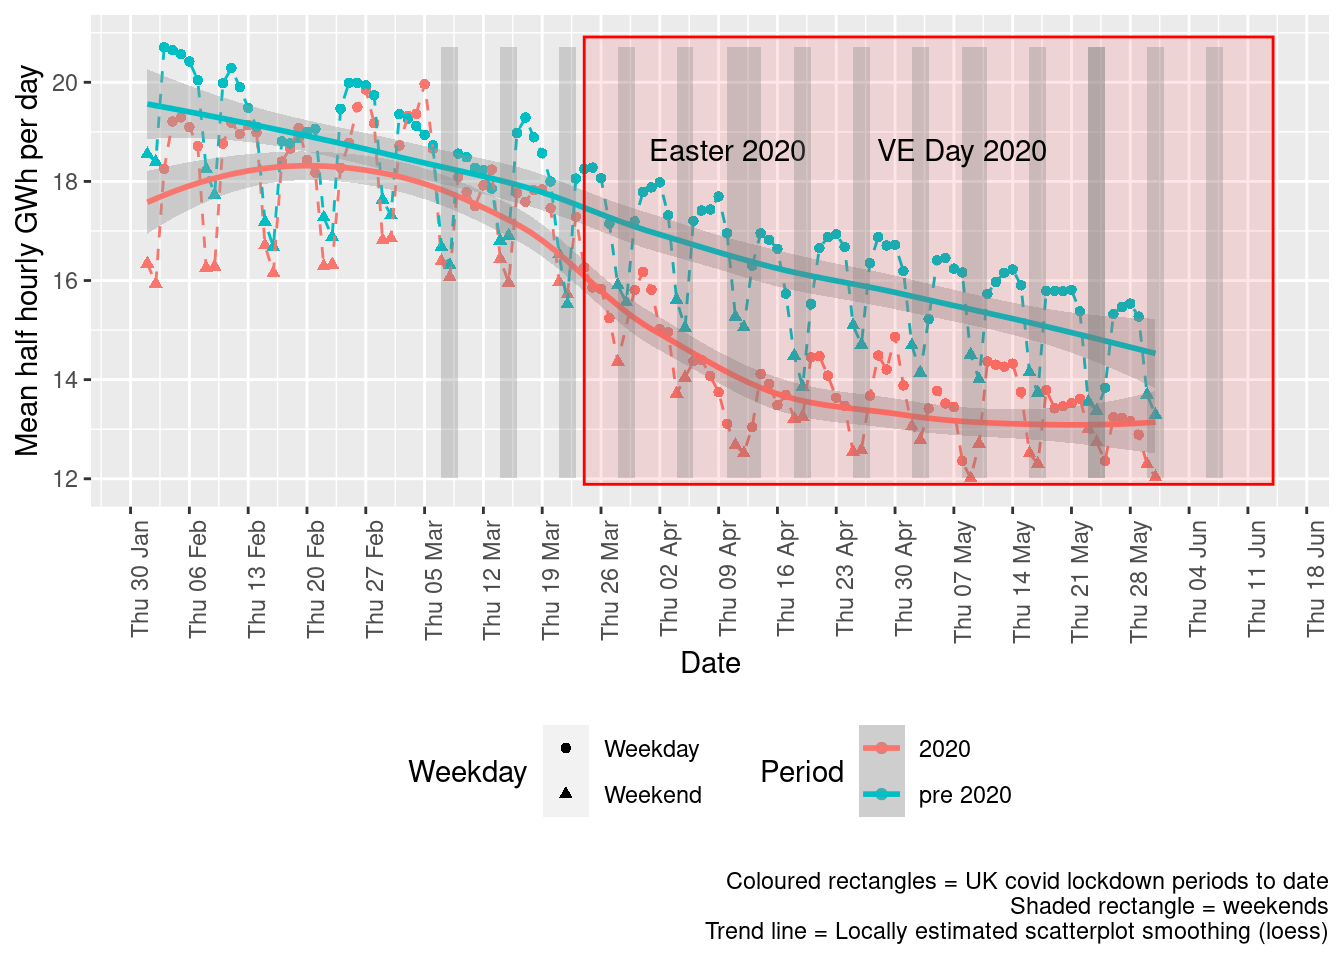
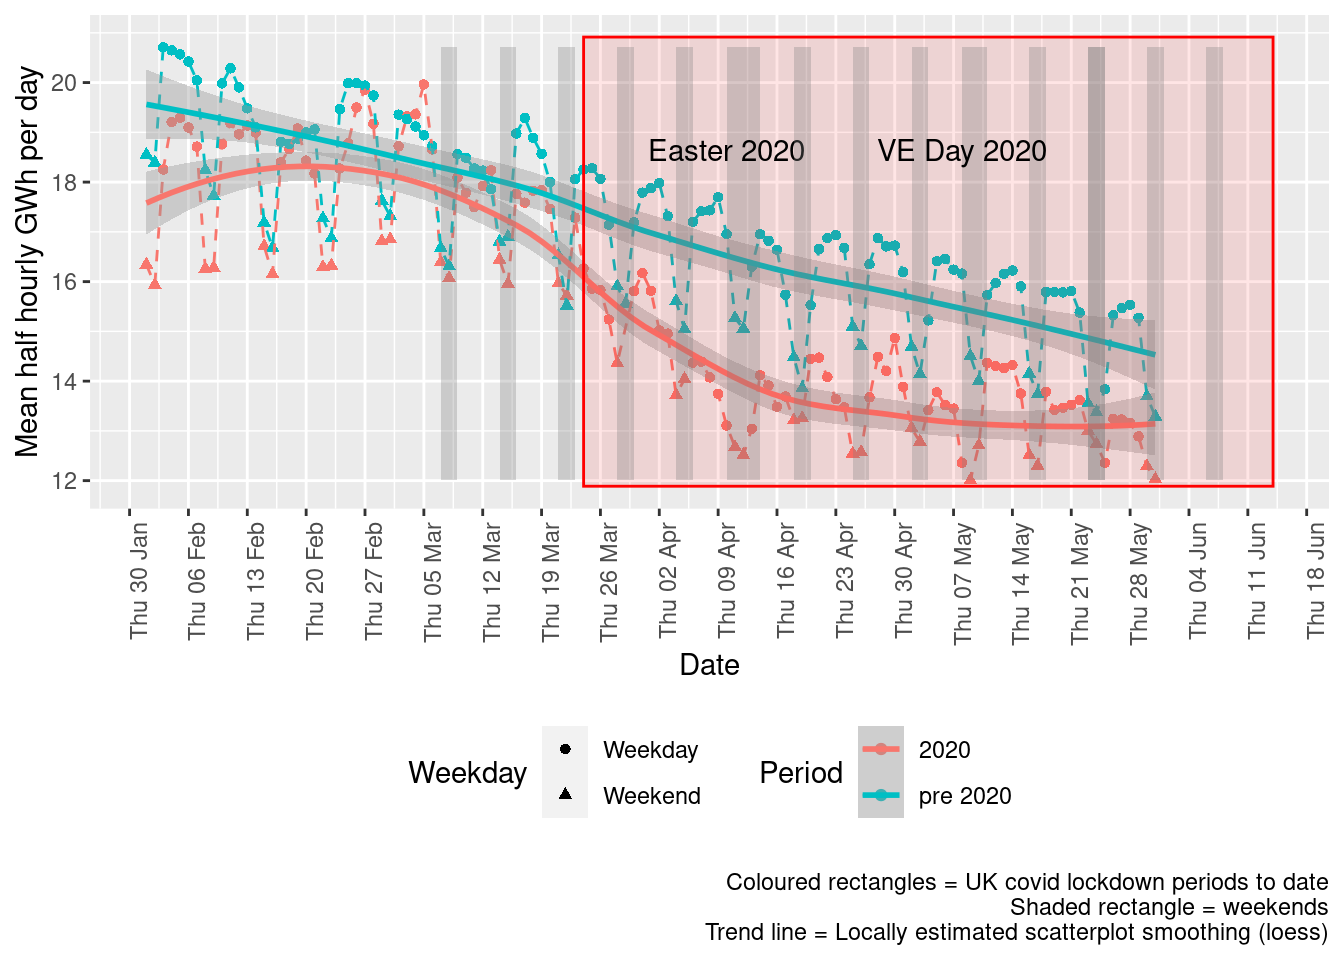
re-ran with re-sized output plots

diff --git a/docs/covidLockdown_UK.html b/docs/covidLockdown_UK.html
@@ -269,7 +269,7 @@ div.tocify {
 <h1 class="title toc-ignore">UK Electricity Generation and Carbon Itensity</h1>
 <h3 class="subtitle">covid 19 lockdown v1.0</h3>
 <h4 class="author">Ben Anderson</h4>
-<h4 class="date">Last run at: 2020-06-14 14:04:04</h4>
+<h4 class="date">Last run at: 2020-06-14 15:50:37</h4>
 
 </div>
 
@@ -1254,10 +1254,10 @@ Figure 3.5: timeVariation plots for half-hourly GWh generation comparing pre/loc
 </p>
 </div>
 <pre><code>## Confirming dates plotted: date (as set for openair)</code></pre>
-<pre><code>##                  Min.               1st Qu.                Median                  Mean               3rd Qu. 
-## &quot;2017-01-05 00:00:00&quot; &quot;2017-11-11 17:37:30&quot; &quot;2018-09-18 12:15:00&quot; &quot;2018-09-18 10:56:48&quot; &quot;2019-07-26 05:52:30&quot; 
-##                  Max. 
-## &quot;2020-05-31 23:30:00&quot;</code></pre>
+<pre><code>##                  Min.               1st Qu.                Median                  Mean 
+## &quot;2017-01-05 00:00:00&quot; &quot;2017-11-11 17:37:30&quot; &quot;2018-09-18 12:15:00&quot; &quot;2018-09-18 10:56:48&quot; 
+##               3rd Qu.                  Max. 
+## &quot;2019-07-26 05:52:30&quot; &quot;2020-05-31 23:30:00&quot;</code></pre>
 <pre><code>## Confirming dates plotted: dateFixed</code></pre>
 <pre><code>##         Min.      1st Qu.       Median         Mean      3rd Qu.         Max. 
 ## &quot;2020-01-02&quot; &quot;2020-02-08&quot; &quot;2020-03-16&quot; &quot;2020-03-16&quot; &quot;2020-04-24&quot; &quot;2020-05-31&quot;</code></pre>
@@ -1648,10 +1648,10 @@ Figure 3.13: timeVariation plots for half-hourly carbon intensity comparing lock
 </p>
 </div>
 <pre><code>## Confirming dates plotted: date (as set for openair)</code></pre>
-<pre><code>##                  Min.               1st Qu.                Median                  Mean               3rd Qu. 
-## &quot;2017-01-05 00:00:00&quot; &quot;2017-11-11 17:37:30&quot; &quot;2018-09-18 12:15:00&quot; &quot;2018-09-18 10:56:48&quot; &quot;2019-07-26 05:52:30&quot; 
-##                  Max. 
-## &quot;2020-05-31 23:30:00&quot;</code></pre>
+<pre><code>##                  Min.               1st Qu.                Median                  Mean 
+## &quot;2017-01-05 00:00:00&quot; &quot;2017-11-11 17:37:30&quot; &quot;2018-09-18 12:15:00&quot; &quot;2018-09-18 10:56:48&quot; 
+##               3rd Qu.                  Max. 
+## &quot;2019-07-26 05:52:30&quot; &quot;2020-05-31 23:30:00&quot;</code></pre>
 <pre><code>## Confirming dates plotted: dateFixed</code></pre>
 <pre><code>##         Min.      1st Qu.       Median         Mean      3rd Qu.         Max. 
 ## &quot;2020-01-02&quot; &quot;2020-02-08&quot; &quot;2020-03-16&quot; &quot;2020-03-16&quot; &quot;2020-04-24&quot; &quot;2020-05-31&quot;</code></pre>
@@ -2016,10 +2016,10 @@ Figure 3.19: timeVariation plots for half-hourly CO2e comparing lockdown 2020 wi
 </p>
 </div>
 <pre><code>## Confirming dates plotted: date (as set for openair)</code></pre>
-<pre><code>##                  Min.               1st Qu.                Median                  Mean               3rd Qu. 
-## &quot;2017-01-05 00:00:00&quot; &quot;2017-11-11 17:37:30&quot; &quot;2018-09-18 12:15:00&quot; &quot;2018-09-18 10:56:48&quot; &quot;2019-07-26 05:52:30&quot; 
-##                  Max. 
-## &quot;2020-05-31 23:30:00&quot;</code></pre>
+<pre><code>##                  Min.               1st Qu.                Median                  Mean 
+## &quot;2017-01-05 00:00:00&quot; &quot;2017-11-11 17:37:30&quot; &quot;2018-09-18 12:15:00&quot; &quot;2018-09-18 10:56:48&quot; 
+##               3rd Qu.                  Max. 
+## &quot;2019-07-26 05:52:30&quot; &quot;2020-05-31 23:30:00&quot;</code></pre>
 <pre><code>## Confirming dates plotted: dateFixed</code></pre>
 <pre><code>##         Min.      1st Qu.       Median         Mean      3rd Qu.         Max. 
 ## &quot;2020-01-02&quot; &quot;2020-02-08&quot; &quot;2020-03-16&quot; &quot;2020-03-16&quot; &quot;2020-04-24&quot; &quot;2020-05-31&quot;</code></pre>
@@ -4337,11 +4337,6 @@ Figure 6.11: Trend plots of mean half-hourly fuel use per month since 2016-01-01
 <div id="experimental-plots" class="section level2">
 <h2><span class="header-section-number">6.3</span> Experimental plots</h2>
 <p>Figure <a href="#fig:binedDemand">6.12</a> shows the relationship between half-hourly carbon intensity and half-hourly generation over the last five years. 2020 is excluded as it is not yet complete.</p>
-<pre><code>## 
-## Attaching package: &#39;gtools&#39;</code></pre>
-<pre><code>## The following object is masked from &#39;package:drake&#39;:
-## 
-##     running</code></pre>
 <div class="figure"><span id="fig:binedDemand"></span>
 <img src="covidLockdown_UK_files/figure-html/binedDemand-1.png" alt="Box &amp; whiskers plots of carbon intensity over time by generation decile" width="672" />
 <p class="caption">
@@ -4364,7 +4359,7 @@ Figure 6.12: Box &amp; whiskers plots of carbon intensity over time by generatio
 </div>
 <div id="runtime" class="section level1">
 <h1><span class="header-section-number">7</span> Runtime</h1>
-<p>Analysis completed in 135.85 seconds ( 2.26 minutes) using <a href="https://cran.r-project.org/package=knitr">knitr</a> in <a href="http://www.rstudio.com">RStudio</a> with R version 3.6.0 (2019-04-26) running on x86_64-redhat-linux-gnu.</p>
+<p>Analysis completed in 108.83 seconds ( 1.81 minutes) using <a href="https://cran.r-project.org/package=knitr">knitr</a> in <a href="http://www.rstudio.com">RStudio</a> with R version 3.6.0 (2019-04-26) running on x86_64-redhat-linux-gnu.</p>
 </div>
 <div id="r-environment" class="section level1">
 <h1><span class="header-section-number">8</span> R environment</h1>
@@ -4393,33 +4388,35 @@ Figure 6.12: Box &amp; whiskers plots of carbon intensity over time by generatio
 ## BLAS/LAPACK: /usr/lib64/R/lib/libRblas.so
 ## 
 ## locale:
-##  [1] LC_CTYPE=en_GB.UTF-8       LC_NUMERIC=C               LC_TIME=en_GB.UTF-8        LC_COLLATE=en_GB.UTF-8    
-##  [5] LC_MONETARY=en_GB.UTF-8    LC_MESSAGES=en_GB.UTF-8    LC_PAPER=en_GB.UTF-8       LC_NAME=C                 
-##  [9] LC_ADDRESS=C               LC_TELEPHONE=C             LC_MEASUREMENT=en_GB.UTF-8 LC_IDENTIFICATION=C       
+##  [1] LC_CTYPE=en_GB.UTF-8       LC_NUMERIC=C               LC_TIME=en_GB.UTF-8       
+##  [4] LC_COLLATE=en_GB.UTF-8     LC_MONETARY=en_GB.UTF-8    LC_MESSAGES=en_GB.UTF-8   
+##  [7] LC_PAPER=en_GB.UTF-8       LC_NAME=C                  LC_ADDRESS=C              
+## [10] LC_TELEPHONE=C             LC_MEASUREMENT=en_GB.UTF-8 LC_IDENTIFICATION=C       
 ## 
 ## attached base packages:
 ## [1] stats     graphics  grDevices utils     datasets  methods   base     
 ## 
 ## other attached packages:
-##  [1] gtools_3.8.1      openair_2.7-2     kableExtra_1.1.0  zoo_1.8-4         skimr_2.1.1       lubridate_1.7.9  
-##  [7] hms_0.5.3         ggplot2_3.3.1     drake_7.12.2      data.table_1.12.0 gridCarbon_0.1.0  here_0.1         
+##  [1] gtools_3.8.1      openair_2.7-2     kableExtra_1.1.0  zoo_1.8-4         skimr_2.1.1      
+##  [6] lubridate_1.7.9   hms_0.5.3         ggplot2_3.3.1     drake_7.12.2      data.table_1.12.0
+## [11] gridCarbon_0.1.0  here_0.1         
 ## 
 ## loaded via a namespace (and not attached):
-##  [1] Rcpp_1.0.1          txtq_0.2.0          lattice_0.20-38     tidyr_1.1.0         prettyunits_1.0.2  
-##  [6] utf8_1.1.4          assertthat_0.2.0    rprojroot_1.3-2     digest_0.6.25       R6_2.3.0           
-## [11] repr_1.1.0          backports_1.1.3     evaluate_0.14       highr_0.7           httr_1.4.1         
-## [16] pillar_1.4.4        rlang_0.4.6         progress_1.2.2      rstudioapi_0.11     hexbin_1.27.2      
-## [21] Matrix_1.2-17       rmarkdown_2.2       labeling_0.3        splines_3.6.0       webshot_0.5.2      
-## [26] readr_1.3.1         stringr_1.4.0       igraph_1.2.2        munsell_0.5.0       compiler_3.6.0     
-## [31] xfun_0.14           pkgconfig_2.0.2     base64enc_0.1-3     mgcv_1.8-28         htmltools_0.3.6    
-## [36] tidyselect_1.1.0    tibble_3.0.1        bookdown_0.19       fansi_0.4.0         viridisLite_0.3.0  
-## [41] crayon_1.3.4        dplyr_1.0.0         withr_2.1.2         MASS_7.3-51.4       grid_3.6.0         
-## [46] nlme_3.1-139        jsonlite_1.6        gtable_0.2.0        lifecycle_0.2.0     magrittr_1.5       
-## [51] storr_1.2.1         scales_1.0.0        cli_2.0.2           stringi_1.2.4       mapproj_1.2.7      
-## [56] latticeExtra_0.6-28 xml2_1.3.2          ellipsis_0.3.1      filelock_1.0.2      generics_0.0.2     
-## [61] vctrs_0.3.1         RColorBrewer_1.1-2  tools_3.6.0         forcats_0.5.0       glue_1.4.1         
-## [66] purrr_0.3.4         maps_3.3.0          yaml_2.2.0          parallel_3.6.0      colorspace_1.4-0   
-## [71] cluster_2.0.8       base64url_1.4       rvest_0.3.5         knitr_1.28</code></pre>
+##  [1] httr_1.4.1          maps_3.3.0          tidyr_1.1.0         jsonlite_1.6        viridisLite_0.3.0  
+##  [6] splines_3.6.0       assertthat_0.2.0    highr_0.7           latticeExtra_0.6-28 base64url_1.4      
+## [11] yaml_2.2.0          progress_1.2.2      pillar_1.4.4        backports_1.1.3     lattice_0.20-38    
+## [16] glue_1.4.1          digest_0.6.25       RColorBrewer_1.1-2  rvest_0.3.5         colorspace_1.4-0   
+## [21] htmltools_0.3.6     Matrix_1.2-17       pkgconfig_2.0.2     bookdown_0.19       purrr_0.3.4        
+## [26] scales_1.0.0        webshot_0.5.2       tibble_3.0.1        mgcv_1.8-28         txtq_0.2.0         
+## [31] generics_0.0.2      ellipsis_0.3.1      withr_2.1.2         repr_1.1.0          hexbin_1.27.2      
+## [36] cli_2.0.2           magrittr_1.5        crayon_1.3.4        evaluate_0.14       storr_1.2.1        
+## [41] fansi_0.4.0         nlme_3.1-139        MASS_7.3-51.4       forcats_0.5.0       xml2_1.3.2         
+## [46] tools_3.6.0         prettyunits_1.0.2   lifecycle_0.2.0     stringr_1.4.0       munsell_0.5.0      
+## [51] cluster_2.0.8       compiler_3.6.0      rlang_0.4.6         grid_3.6.0          rstudioapi_0.11    
+## [56] igraph_1.2.2        labeling_0.3        base64enc_0.1-3     rmarkdown_2.2       gtable_0.2.0       
+## [61] R6_2.3.0            knitr_1.28          dplyr_1.0.0         utf8_1.1.4          filelock_1.0.2     
+## [66] rprojroot_1.3-2     readr_1.3.1         stringi_1.2.4       parallel_3.6.0      Rcpp_1.0.1         
+## [71] vctrs_0.3.1         mapproj_1.2.7       tidyselect_1.1.0    xfun_0.14</code></pre>
 </div>
 </div>
 <div id="references" class="section level1 unnumbered">
